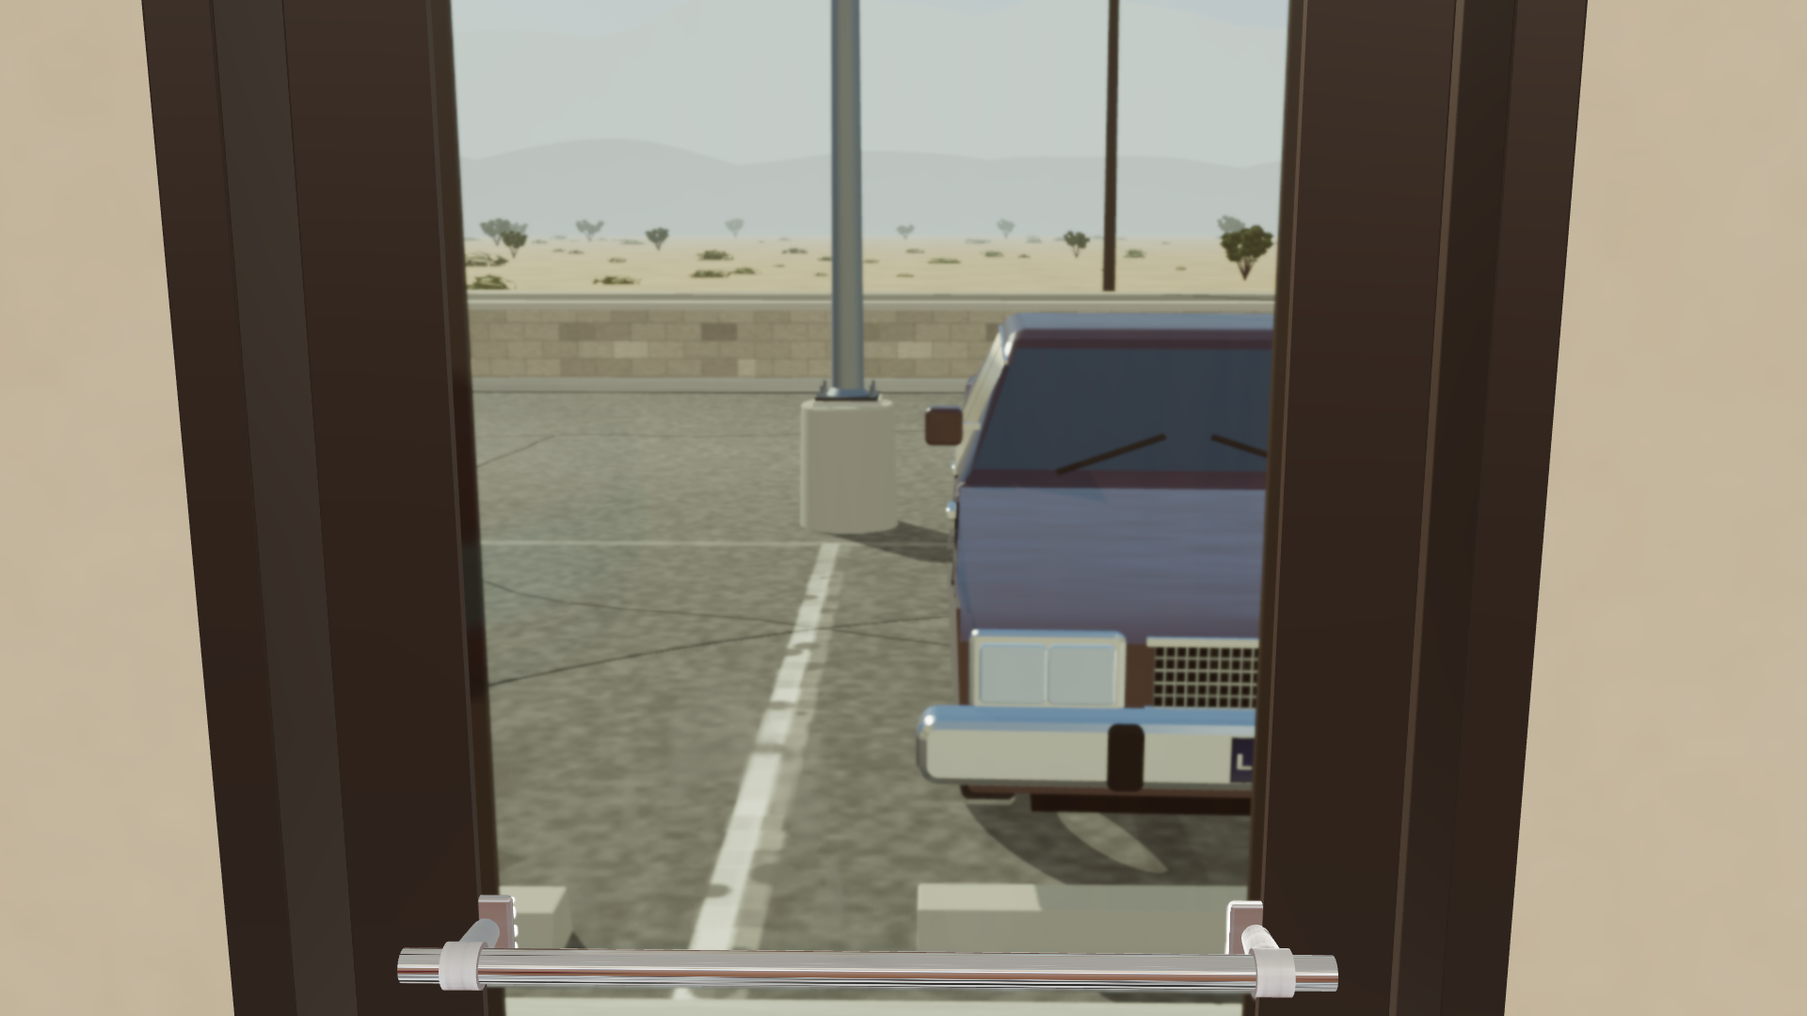
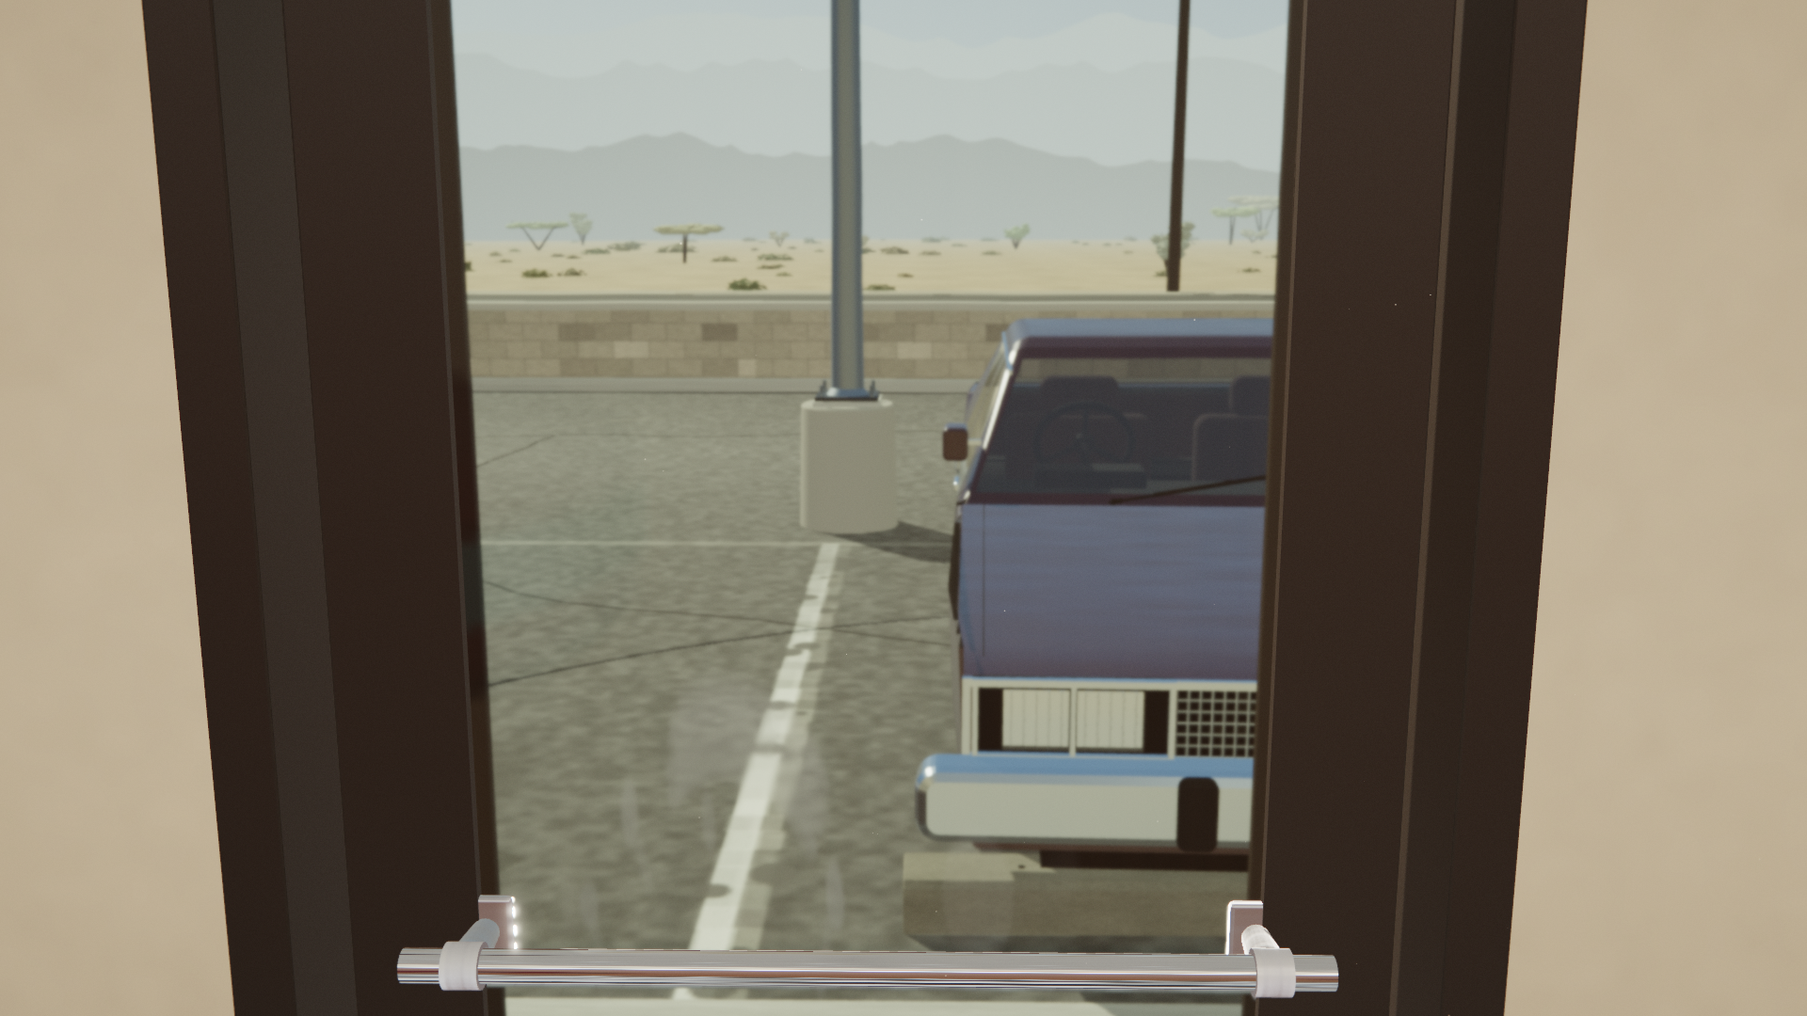
WIP checkpoint: sys3 rev 4 (paused)

diff --git a/src/scene/Exterior.ts b/src/scene/Exterior.ts
@@ -204,6 +204,8 @@ interface Station {
   rTop: number;
   /** Hard shading break at this station (hood → windshield, roof → backlight …). */
   crease?: boolean;
+  /** Inset faces at this station are painted body (open bed) rather than dark shut-line walls. */
+  insetPaint?: boolean;
   /** Shut line / gap / bed: moves ring point j (given its outward 2D normal) or leaves it (null). */
   inset?: (j: number, p: [number, number], n: [number, number]) => [number, number] | null;
 }
@@ -230,7 +232,8 @@ interface CarSpec {
   /** Body top line as (z, yTop, hwTop, rTop, crease?) — the loft resamples between them. */
   top: Array<[number, number, number, number, boolean?]>;
   /** Side glass panes along the flank. */
-  sideGlass: Array<{ z0: number; z1: number }>;
+  /** Side panes: belt-line z extent, with optional raked pillar edges at the roof (A-pillar z0Top, C-pillar z1Top). */
+  sideGlass: Array<{ z0: number; z1: number; z0Top?: number; z1Top?: number }>;
   /** Door shut lines (z). The handle of each door sits ahead of its REAR cut. */
   doors: number[];
   grooves: Groove[];
@@ -248,7 +251,6 @@ interface CarSpec {
     wheel: { x: number; y: number; z: number; r: number };
     seats: Array<{ z: number; x0: number; x1: number; y0: number; y1: number; headrest?: boolean }>;
     shelf?: { z0: number; z1: number; y: number; hw: number };
-    pillars: number[];
   };
   paint: THREE.Material;
   grilleMat: THREE.Material;
@@ -311,13 +313,22 @@ function stationRing(s: Station): Array<[number, number]> {
  * Quads that touch an inset (moved) ring point are the groove walls / floors and go to the
  * second geometry (dark material) so a 3 mm shut line reads without shadow-map resolution.
  */
-function loftBody(stations: Station[], L: number): { body: THREE.BufferGeometry; grooves: THREE.BufferGeometry } {
+/**
+ * Glass classification of loft quad (station i → i+1, ring segment j): `full` — the whole quad
+ * is a pane (side glass on the tumblehome segment); `[wA, wB]` — the top-centre quad is split
+ * at |x| = w (glass inboard, A-pillar/header paint outboard), w interpolated per station.
+ */
+type GlassSplit = { tA: number; tB: number; low: boolean };
+type GlassOf = (i: number, j: number) => "full" | GlassSplit | null;
+
+function loftBody(stations: Station[], L: number, glassOf: GlassOf = () => null): { body: THREE.BufferGeometry; grooves: THREE.BufferGeometry; glass: THREE.BufferGeometry } {
   const rings = stations.map(stationRing);
   const plain = stations.map((s) => stationRing({ ...s, inset: undefined }));
   const moved = rings.map((r, i) => r.map((p, j) => Math.abs(p[0] - plain[i][j][0]) + Math.abs(p[1] - plain[i][j][1]) > 1e-9));
   const N = rings[0].length;
   const P = (i: number, j: number) => new THREE.Vector3(rings[i][(j + N) % N][0], rings[i][(j + N) % N][1], stations[i].z);
-  const out = { body: { pos: [] as number[], nor: [] as number[], uv: [] as number[] }, grooves: { pos: [] as number[], nor: [] as number[], uv: [] as number[] } };
+  type Sink = { pos: number[]; nor: number[]; uv: number[] };
+  const out: { body: Sink; grooves: Sink; glass: Sink } = { body: { pos: [], nor: [], uv: [] }, grooves: { pos: [], nor: [], uv: [] }, glass: { pos: [], nor: [], uv: [] } };
   const normalAt = (i: number, j: number, dir: -1 | 0 | 1) => {
     const around = P(i, j + 1).sub(P(i, j - 1));
     const back = dir <= 0 && i > 0 ? P(i - 1, j) : P(i, j);
@@ -355,7 +366,24 @@ function loftBody(stations: Station[], L: number): { body: THREE.BufferGeometry;
       const a = P(i, j), b = P(i, j1), c = P(i + 1, j1), d = P(i + 1, j);
       const va = j / N, vb = (j + 1) / N;
       const groove = moved[i][j] || moved[i][j1] || moved[i + 1][j] || moved[i + 1][j1];
-      const dst = groove ? out.grooves : out.body;
+      const glass = groove ? null : glassOf(i, j);
+      const dst = groove ? (stations[i].insetPaint || stations[i + 1].insetPaint ? out.body : out.grooves) : glass === "full" ? out.glass : out.body;
+      if (glass && glass !== "full") {
+        // Split the quad by the line joining parameter tA on edge a→b (station i) to tB on edge
+        // d→c (station i+1); the t-low side is glass when `low`, else the t-high side.
+        const cut = (p: THREE.Vector3, q: THREE.Vector3, np: THREE.Vector3, nq: THREE.Vector3, t: number) => ({
+          p: p.clone().lerp(q, t), n: np.clone().lerp(nq, t).normalize(), t,
+        });
+        const sA = cut(a, b, nA[j], nA[j1], THREE.MathUtils.clamp(glass.tA, 0, 1)), sB = cut(d, c, nB[j], nB[j1], THREE.MathUtils.clamp(glass.tB, 0, 1));
+        const vA = va + (vb - va) * sA.t, vB = va + (vb - va) * sB.t;
+        const lowDst = glass.low ? out.glass : out.body, highDst = glass.low ? out.body : out.glass;
+        // low quad: a, sA, sB, d ; high quad: sA, b, c, sB
+        tri(lowDst, a, sA.p, sB.p, nA[j], sA.n, sB.n, [uA, va], [uA, vA], [uB, vB]);
+        tri(lowDst, a, sB.p, d, nA[j], sB.n, nB[j], [uA, va], [uB, vB], [uB, va]);
+        tri(highDst, sA.p, b, c, sA.n, nA[j1], nB[j1], [uA, vA], [uA, vb], [uB, vb]);
+        tri(highDst, sA.p, c, sB.p, sA.n, nB[j1], sB.n, [uA, vA], [uB, vb], [uB, vB]);
+        continue;
+      }
       tri(dst, a, b, c, nA[j], nA[j1], nB[j1], [uA, va], [uA, vb], [uB, vb]);
       tri(dst, a, c, d, nA[j], nB[j1], nB[j], [uA, va], [uB, vb], [uB, va]);
     }
@@ -376,7 +404,7 @@ function loftBody(stations: Station[], L: number): { body: THREE.BufferGeometry;
     g.setAttribute("uv", new THREE.Float32BufferAttribute(o.uv, 2));
     return g;
   };
-  return { body: make(out.body), grooves: make(out.grooves) };
+  return { body: make(out.body), grooves: make(out.grooves), glass: make(out.glass) };
 }
 
 /** Rounded box (all edges radius r) via ExtrudeGeometry of a rounded rectangle. */
@@ -504,9 +532,18 @@ function buildCar(b: MergedBuilder, parent: THREE.Object3D, spec: CarSpec, mats:
     if (z < 0.35) y = Math.max(y, 0.36); // valance under the bumper
     return y;
   };
+  // Screens lie on the body's top line between two crease stations: derive their z extent from
+  // the requested y extent so the glass edge sits exactly on a loft station.
+  const screens = spec.screens.map((sc0) => {
+    const yA = topAt(sc0.zb)[0], yB = topAt(sc0.zt)[0];
+    const zAt = (y: number) => sc0.zb + ((sc0.zt - sc0.zb) * (y - yA)) / (yB - yA);
+    return { ...sc0, zb: zAt(sc0.yb), zt: zAt(sc0.yt) };
+  });
   const inGroove = (z: number) => spec.grooves.some((g) => z > g.z0 - 1e-9 && z < g.z1 + 1e-9);
   const zs = new Set<number>();
   for (const [z] of spec.top) zs.add(z);
+  for (const gl of spec.sideGlass) { zs.add(gl.z0); zs.add(gl.z1); if (gl.z0Top) zs.add(gl.z0Top); if (gl.z1Top) zs.add(gl.z1Top); }
+  for (const sc of screens) { zs.add(sc.zb); zs.add(sc.zt); }
   for (const wz of spec.wheelZ) for (let k = -10; k <= 10; k++) zs.add(THREE.MathUtils.clamp(wz + (k / 10) * arch.w, 0, L));
   for (let z = 0; z <= L; z += 0.25) zs.add(Math.min(L, z));
   zs.add(0); zs.add(L);
@@ -532,80 +569,93 @@ function buildCar(b: MergedBuilder, parent: THREE.Object3D, spec: CarSpec, mats:
     const hwB = hw - 0.04 * (1 - taper);
     const yLo = lowAt(z);
     const st: Station = { z, yLo, yBelt: Math.max(beltY, yLo + 0.05), yTop, hwSill: hwB - 0.035, hwBelt: hwB, hwTop: Math.min(hwTop, hwB - 0.012), rTop, crease: creaseZ.has(z) || e.k !== 1 || !!e.groove };
-    if (e.groove) st.inset = insetFor(e.groove, st);
+    if (e.groove) { st.inset = insetFor(e.groove, st); st.insetPaint = e.groove.span === "bed"; }
     return st;
   });
-  const loft = loftBody(stations, L);
+  // Glass IS the loft skin (not a proud pane over paint): the tumblehome segment over a side
+  // pane's z span, and the top-centre quads inboard of the A-pillars over a screen's span.
+  const eps = 1e-6;
+  const glassOf: GlassOf = (i, j) => {
+    const zA = stations[i].z, zB = stations[i + 1].z;
+    if (zB - zA < eps) return null;
+    if (j === 6 || j === 17) {
+      // Side pane: full between the raked pillar edges; split diagonally along the A-pillar
+      // (z0 at the belt → z0Top at the roof) and C-pillar (z1 → z1Top) rakes. Ring segment 6
+      // runs belt → roof (t up); 17 runs roof → belt, so mirror the parameter.
+      for (const g of spec.sideGlass) {
+        const zf = g.z0Top ?? g.z0, zr = g.z1Top ?? g.z1;
+        const lo = Math.min(g.z0, zf), hi = Math.max(g.z1, zr);
+        if (zA < lo - eps || zB > hi + eps) continue;
+        let s: GlassSplit | "full" = "full";
+        if (zB <= Math.max(g.z0, zf) + eps && zf !== g.z0) {
+          const tOf = (z: number) => (z - g.z0) / (zf - g.z0); // glass for t < tOf (z ahead of the edge line)
+          s = { tA: tOf(zA), tB: tOf(zB), low: true };
+        } else if (zA >= Math.min(g.z1, zr) - eps && zr !== g.z1) {
+          const tOf = (z: number) => (z - g.z1) / (zr - g.z1);
+          s = { tA: tOf(zA), tB: tOf(zB), low: true };
+        }
+        if (s !== "full" && j === 17) s = { tA: 1 - s.tA, tB: 1 - s.tB, low: false };
+        return s;
+      }
+      return null;
+    }
+    if (j !== 11 && j !== 12) return null;
+    for (const sc of screens) {
+      const lo = Math.min(sc.zb, sc.zt), hi = Math.max(sc.zb, sc.zt);
+      if (zA < lo - eps || zB > hi + eps) continue;
+      // Split at |x| = w(z): segment 11 runs from x = +flat (t 0) to 0 (t 1) — glass is t high;
+      // segment 12 runs 0 → −flat — glass is t low.
+      const tAt = (k: number) => {
+        const st = stations[k];
+        const f = hi > lo ? (st.z - sc.zb) / (sc.zt - sc.zb) : 0; // 0 at the base, 1 at the roof
+        const wBase = st.hwBelt - 0.07, wRoof = st.hwTop - 0.06; // pillar widths at each end
+        const flat = st.hwTop - Math.max(0.004, Math.min(st.rTop, (st.yTop - st.yBelt) * 0.9, st.hwTop * 0.5)); // ±x of ring point 11
+        const w = Math.min(wBase + (wRoof - wBase) * f, flat - 0.004);
+        const tIn = (flat - w) / flat; // parameter from the outboard end
+        return j === 11 ? tIn : 1 - tIn;
+      };
+      return { tA: tAt(i), tB: tAt(i + 1), low: j === 12 };
+    }
+    return null;
+  };
+  const loft = loftBody(stations, L, glassOf);
+  // Cabin lining: the same shell inside out in dark matte, so the eye never passes through the
+  // culled back of the paint skin to the sky/asphalt; the glass cut-outs are its only openings.
+  // (Clone BEFORE place(): MergedBuilder.add transforms the geometry it is given in place.)
+  const lining = flipFaces(loft.body.clone());
   place(loft.body, spec.paint);
+  place(lining, mats.cabin);
   place(loft.grooves, mats.dark);
+  sink2(sink.panes, loft.glass);
   // Longitudinal cut lines (hood ↔ fender, deck ↔ quarter): 3 mm dark strips 0.8 mm over the top skin
   for (const ln of spec.topLines)
     for (const sx of [-1, 1]) {
-      const pos: number[] = [], nor: number[] = [], idx: number[] = [];
+      const pos: number[] = [], nor: number[] = [], uvs: number[] = [], idx: number[] = [];
       const n = Math.max(2, Math.round((ln.z1 - ln.z0) / 0.08));
       for (let i = 0; i <= n; i++) {
         const z = ln.z0 + ((ln.z1 - ln.z0) * i) / n;
-        const y = topAt(z)[0] + 0.0008;
+        const y = topAt(z)[0] + 0.0025;
         pos.push(sx * ln.x - 0.0015, y, z, sx * ln.x + 0.0015, y, z);
         nor.push(0, 1, 0, 0, 1, 0);
+        uvs.push(0, i / n, 1, i / n);
         if (i < n) { const p = i * 2; idx.push(p, p + 2, p + 1, p + 2, p + 3, p + 1); }
       }
       const g = new THREE.BufferGeometry();
       g.setAttribute("position", new THREE.Float32BufferAttribute(pos, 3));
       g.setAttribute("normal", new THREE.Float32BufferAttribute(nor, 3));
+      g.setAttribute("uv", new THREE.Float32BufferAttribute(uvs, 2));
       g.setIndex(idx);
       place(g, mats.dark);
     }
 
-  /* ---- glass ---- */
-  // Side glass: a quad on the tumblehome plane (belt → roof edge), 6 mm proud of the body
-  const sideQuad = (sx: number, z0: number, z1: number, inset: number) => {
-    const st = stations.find((s) => s.z >= (z0 + z1) / 2) ?? stations[0];
-    const rT = Math.min(st.rTop, (st.yTop - st.yBelt) * 0.9);
-    const a = new THREE.Vector2(st.hwBelt, st.yBelt + 0.02), c = new THREE.Vector2(st.hwTop, st.yTop - rT - 0.01);
-    const n = new THREE.Vector2(c.y - a.y, -(c.x - a.x)).normalize(); // outward in (x, y)
-    const g = new THREE.BufferGeometry();
-    const p = [
-      a.x + n.x * inset, a.y + n.y * inset, z0, c.x + n.x * inset, c.y + n.y * inset, z0,
-      c.x + n.x * inset, c.y + n.y * inset, z1, a.x + n.x * inset, a.y + n.y * inset, z1,
-    ];
-    for (let i = 0; i < p.length; i += 3) p[i] *= sx;
-    g.setAttribute("position", new THREE.Float32BufferAttribute(p, 3));
-    g.setIndex(sx > 0 ? [0, 1, 2, 0, 2, 3] : [0, 2, 1, 0, 3, 2]);
-    g.computeVertexNormals();
-    g.setAttribute("uv", new THREE.Float32BufferAttribute([0, 0, 0, 1, 1, 1, 1, 0], 2));
-    sink2(sink.panes, g);
-  };
-  for (const sx of [-1, 1]) for (const gl of spec.sideGlass) sideQuad(sx, gl.z0, gl.z1, 0.006);
-  // Windshield / backlight: a trapezoid following the roof-to-cowl taper, 6 mm proud
-  for (const sc0 of spec.screens) {
-    // The glass lies on the body's top line between the two crease stations: derive its z
-    // extent from the requested y extent so it neither sinks into nor floats off the loft.
-    const yA = topAt(sc0.zb)[0], yB = topAt(sc0.zt)[0];
-    const zAt = (y: number) => sc0.zb + ((sc0.zt - sc0.zb) * (y - yA)) / (yB - yA);
-    const sc = { ...sc0, zb: zAt(sc0.yb), zt: zAt(sc0.yt) };
-    const baseSt = stations.find((s) => s.z >= sc.zb) ?? stations[stations.length - 1];
-    const roofSt = stations.find((s) => s.z >= sc.zt) ?? stations[stations.length - 1];
+  /* ---- wipers ---- */
+  for (const sc of screens) {
     const dz = sc.zt - sc.zb, dy = sc.yt - sc.yb, l = Math.hypot(dz, dy);
-    const wt = roofSt.hwTop - 0.06;
-    const wb = dz > 0 ? baseSt.hwBelt - 0.07 : Math.min(baseSt.hwTop, roofSt.hwTop + 0.08) - 0.05;
-    const ny = Math.abs(dz) / l, nz = dz > 0 ? -dy / l : dy / l;
-    const off = 0.006;
-    const p = [
-      -wb, sc.yb + ny * off, sc.zb + nz * off, wb, sc.yb + ny * off, sc.zb + nz * off,
-      wt, sc.yt + ny * off, sc.zt + nz * off, -wt, sc.yt + ny * off, sc.zt + nz * off,
-    ];
-    const g = new THREE.BufferGeometry();
-    g.setAttribute("position", new THREE.Float32BufferAttribute(p, 3));
-    g.setIndex(dz > 0 ? [0, 2, 1, 0, 3, 2] : [0, 1, 2, 0, 2, 3]);
-    g.computeVertexNormals();
-    g.setAttribute("uv", new THREE.Float32BufferAttribute([0, 0, 1, 0, 1, 1, 0, 1], 2));
-    sink2(sink.panes, g);
-    // Wipers (front screen only): arm + blade assemblies parked along the cowl, pivots in the
-    // cowl channel behind the hood's trailing edge, 12° rake, blades pointing to the passenger side.
+    // Front screen only: arm + blade assemblies parked along the cowl, pivots in the cowl
+    // channel behind the hood's trailing edge, 12° rake, blades pointing to the passenger side.
     if (dz > 0) {
       const up = new THREE.Vector3(0, dy / l, dz / l); // up the glass
-      const nrm = new THREE.Vector3(0, ny, nz); // glass normal (outward)
+      const nrm = new THREE.Vector3(0, dz / l, -dy / l); // glass normal (outward)
       const basis = new THREE.Matrix4().makeBasis(new THREE.Vector3(1, 0, 0), nrm, up);
       const rake = THREE.MathUtils.degToRad(12);
       for (const [xp, len] of [[0.34, 0.44], [-0.24, 0.42]] as Array<[number, number]>) {
@@ -645,11 +695,8 @@ function buildCar(b: MergedBuilder, parent: THREE.Object3D, spec: CarSpec, mats:
   /* ---- cabin interior (behind the panes) ---- */
   {
     const I = spec.interior;
-    // Dark cabin volume: an inside-out box (headliner, door panels, floor) so the eye never
-    // passes through the culled back faces of the body loft to the asphalt.
-    const cab = new THREE.BoxGeometry(I.cabin.hw * 2, I.cabin.y1 - I.cabin.y0, I.cabin.z1 - I.cabin.z0);
-    cab.translate(0, (I.cabin.y0 + I.cabin.y1) / 2, (I.cabin.z0 + I.cabin.z1) / 2);
-    place(cab, mats.cabin);
+    // Floor: a slab at the cabin's floor height so the footwells read as carpet, not the sill loft
+    box(mats.cabin, [-I.cabin.hw, I.cabin.y0 - 0.02, I.cabin.z0], [I.cabin.hw, I.cabin.y0, I.cabin.z1]);
     // Dash: a padded top under the windshield with a lip, instrument binnacle on the driver's side
     rbox(mats.trim, [-I.dash.hw, I.dash.y - 0.1, I.dash.z0], [I.dash.hw, I.dash.y, I.dash.z1], 0.012);
     rbox(mats.trim, [I.wheel.x - 0.2, I.dash.y, I.dash.z1 - 0.2], [I.wheel.x + 0.2, I.dash.y + 0.07, I.dash.z1 - 0.02], 0.01);
@@ -688,11 +735,6 @@ function buildCar(b: MergedBuilder, parent: THREE.Object3D, spec: CarSpec, mats:
       }
     }
     if (I.shelf) rbox(mats.trim, [-I.shelf.hw, I.shelf.y - 0.02, I.shelf.z0], [I.shelf.hw, I.shelf.y, I.shelf.z1], 0.008);
-    // Inner pillars between the side panes (B-pillar trim)
-    for (const pz of I.pillars) {
-      const st = stations.find((s) => s.z >= pz) ?? stations[0];
-      for (const sx of [-1, 1]) box(mats.trim, [Math.min(sx * (st.hwBelt - 0.06), sx * (st.hwBelt - 0.015)), st.yBelt, pz - 0.035], [Math.max(sx * (st.hwBelt - 0.06), sx * (st.hwBelt - 0.015)), st.yTop - 0.02, pz + 0.035]);
-    }
   }
 
   /* ---- wheels ---- */
@@ -862,8 +904,8 @@ function buildCar(b: MergedBuilder, parent: THREE.Object3D, spec: CarSpec, mats:
         }
       }
     }
-    // Amber turn signal under the lamp bay, above the bumper
-    rbox(mats.amber, [xc - 0.11, yc - bayH - 0.06, -0.03], [xc + 0.11, yc - bayH - 0.012, -0.01], 0.008);
+    // Amber turn signal under the lamp bay, above the bumper (the sedan's sit in the bumper: skipped)
+    if (spec.lamps === "round2") rbox(mats.amber, [xc - 0.11, yc - bayH - 0.06, -0.03], [xc + 0.11, yc - bayH - 0.012, -0.01], 0.008);
   }
 
   /* ---- flank hardware ---- */
@@ -1103,7 +1145,7 @@ export function buildExterior(diner: THREE.Group, pal: Palette, sunDir: THREE.Ve
   // rev 2 used metalness 0.55 with a near-black colour, which *tints the reflection black*;
   // rev 3 was opaque navy; rev 4 blends (see makePaneGlass) so the interior shows through.
   const carMats: CarMats = {
-    glass: makePaneGlass(0.3, 1.5),
+    glass: makePaneGlass(0.38, 1.1),
     lensGlass: makePaneGlass(0.1, 1.2),
     chrome: new THREE.MeshStandardMaterial({ color: 0xc4c7cb, roughness: 0.22, metalness: 1 }),
     tyre: new THREE.MeshStandardMaterial({ color: 0x222221, roughness: 0.82, metalness: 0, vertexColors: true }), // sidewall/tread tones in the vertex colour
@@ -1112,10 +1154,10 @@ export function buildExterior(diner: THREE.Group, pal: Palette, sunDir: THREE.Ve
     tail: new THREE.MeshPhysicalMaterial({ color: 0x8a1212, roughness: 0.15, metalness: 0, clearcoat: 1, clearcoatRoughness: 0.08, envMapIntensity: 1 }),
     rubber: new THREE.MeshStandardMaterial({ color: 0x161616, roughness: 0.8, metalness: 0 }),
     shadow: new THREE.MeshBasicMaterial({ color: 0x000000, transparent: true, alphaMap: ext.contactShadowAlpha(128), depthWrite: false, polygonOffset: true, polygonOffsetFactor: -2, polygonOffsetUnits: -4 }),
-    // Cabin: inside-out headliner/door-panel box, cloth seats, dark padded trim
-    cabin: new THREE.MeshStandardMaterial({ color: 0x2a211e, roughness: 0.95, metalness: 0, side: THREE.BackSide }),
-    seat: new THREE.MeshStandardMaterial({ color: 0x4a2f2a, roughness: 0.92, metalness: 0 }),
-    trim: new THREE.MeshStandardMaterial({ color: 0x1c1917, roughness: 0.88, metalness: 0 }),
+    // Cabin: the body shell inside out (headliner, door panels), cloth seats, dark padded trim
+    cabin: new THREE.MeshStandardMaterial({ color: 0x17120f, roughness: 0.95, metalness: 0 }),
+    seat: new THREE.MeshStandardMaterial({ color: 0x33201c, roughness: 0.92, metalness: 0 }),
+    trim: new THREE.MeshStandardMaterial({ color: 0x100e0d, roughness: 0.88, metalness: 0 }),
   };
   carMats.glass.name = "car-glass"; carMats.lensGlass.name = "lamp-glass";
   // Trim sits inside the body's silhouette (lamps in the nose, chrome on the flanks, liners
@@ -1146,10 +1188,10 @@ export function buildExterior(diner: THREE.Group, pal: Palette, sunDir: THREE.Ve
       [1.36, 1.02, 0.86, 0.02, true], [1.70, 1.74, 0.79, 0.07, true], [1.80, 1.79, 0.78, 0.08], [2.80, 1.79, 0.78, 0.08],
       [2.86, 1.74, 0.78, 0.06, true], [2.90, 1.14, 0.88, 0.02, true], [2.92, 1.10, 0.888, 0.012], [4.94, 1.10, 0.888, 0.012], [5.0, 1.02, 0.86, 0.02],
     ],
-    sideGlass: [{ z0: 1.8, z1: 2.8 }],
-    doors: [1.54, 2.84],
+    sideGlass: [{ z0: 1.52, z1: 2.8, z0Top: 1.86 }],
+    doors: [1.42, 2.84],
     grooves: [
-      { z0: 1.538, z1: 1.542, depth: 0.004, span: "side" }, { z0: 2.838, z1: 2.842, depth: 0.004, span: "side" },
+      { z0: 1.417, z1: 1.423, depth: 0.008, span: "side" }, { z0: 2.837, z1: 2.843, depth: 0.008, span: "side" },
       { z0: 2.92, z1: 2.98, depth: 0.15, span: "all" }, // cab-to-bed gap
       { z0: 3.04, z1: 4.9, depth: 0.42, span: "bed" }, // open bed between the rails
     ],
@@ -1161,7 +1203,6 @@ export function buildExterior(diner: THREE.Group, pal: Palette, sunDir: THREE.Ve
       dash: { z0: 1.36, z1: 1.82, y: 0.98, hw: 0.82 },
       wheel: { x: 0.4, y: 1.1, z: 2.08, r: 0.2 },
       seats: [{ z: 2.6, x0: -0.78, x1: 0.78, y0: 0.66, y1: 1.28 }],
-      pillars: [],
     },
     paint: whitePaint, grilleMat: grillePickup, plateMat: platePickup, wheelFace: steelWheelWhite, wheelStyle: "steel",
   };
@@ -1175,11 +1216,11 @@ export function buildExterior(diner: THREE.Group, pal: Palette, sunDir: THREE.Ve
       [1.9, 0.90, 0.86, 0.02, true], [2.44, 1.38, 0.72, 0.08, true], [2.52, 1.42, 0.71, 0.09], [3.5, 1.42, 0.71, 0.09],
       [3.58, 1.38, 0.72, 0.08, true], [4.12, 1.02, 0.86, 0.03, true], [4.2, 1.0, 0.888, 0.015], [4.88, 0.98, 0.888, 0.015], [4.95, 0.9, 0.86, 0.02],
     ],
-    sideGlass: [{ z0: 2.0, z1: 2.9 }, { z0: 2.98, z1: 3.62 }],
+    sideGlass: [{ z0: 2.0, z1: 2.9, z0Top: 2.32 }, { z0: 2.98, z1: 3.62, z1Top: 3.5 }],
     doors: [1.96, 2.94, 3.72],
     grooves: [
-      { z0: 1.958, z1: 1.962, depth: 0.004, span: "side" }, { z0: 2.938, z1: 2.942, depth: 0.004, span: "side" }, { z0: 3.718, z1: 3.722, depth: 0.004, span: "side" },
-      { z0: 4.238, z1: 4.242, depth: 0.004, span: "top" }, // trunk lid leading edge
+      { z0: 1.957, z1: 1.963, depth: 0.008, span: "side" }, { z0: 2.937, z1: 2.943, depth: 0.008, span: "side" }, { z0: 3.717, z1: 3.723, depth: 0.008, span: "side" },
+      { z0: 4.237, z1: 4.243, depth: 0.008, span: "top" }, // trunk lid leading edge
     ],
     topLines: [{ x: 0.8, z0: 0.15, z1: 1.79 }, { x: 0.79, z0: 4.24, z1: 4.9 }],
     screens: [{ zb: 1.9, zt: 2.44, yb: 0.9, yt: 1.34 }, { zb: 4.12, zt: 3.58, yb: 1.04, yt: 1.34 }],
@@ -1194,7 +1235,6 @@ export function buildExterior(diner: THREE.Group, pal: Palette, sunDir: THREE.Ve
         { z: 3.86, x0: -0.76, x1: 0.76, y0: 0.55, y1: 1.0 },
       ],
       shelf: { z0: 3.95, z1: 4.13, y: 1.02, hw: 0.8 },
-      pillars: [2.94],
     },
     paint: maroonPaint, grilleMat: grilleSedan, plateMat: plateSedan, wheelFace: wheelCover, wheelStyle: "cover",
   };
